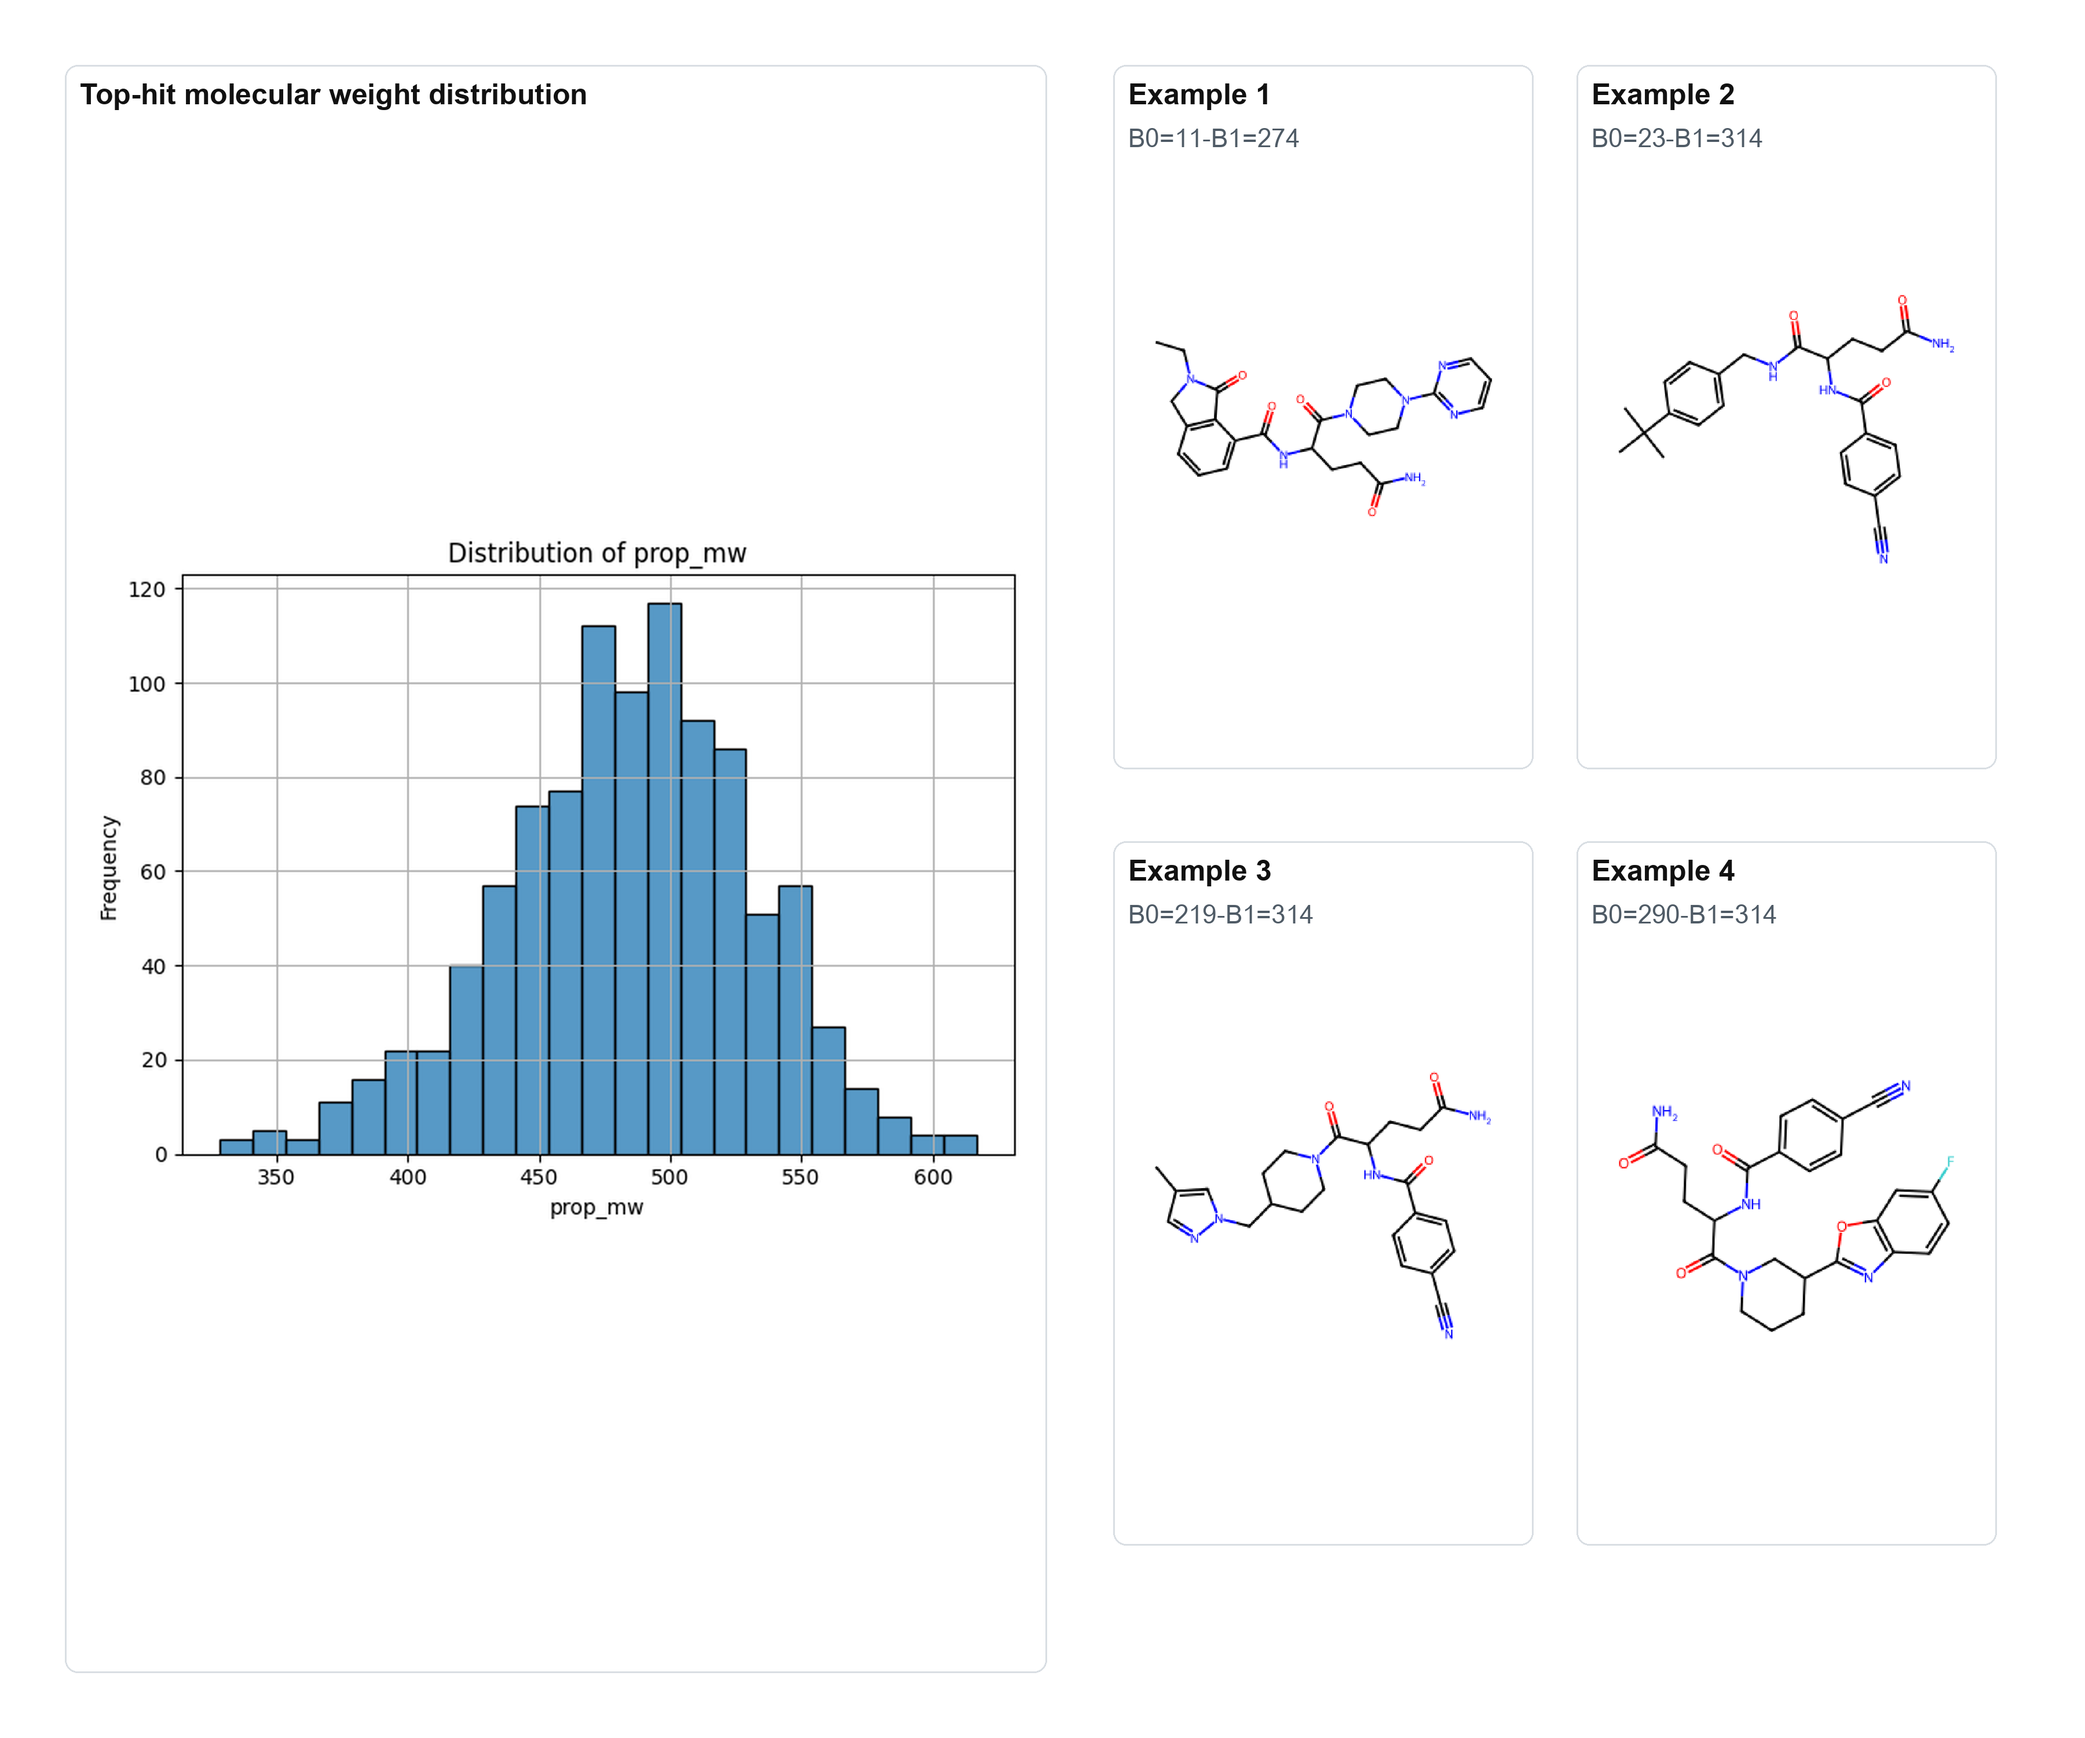
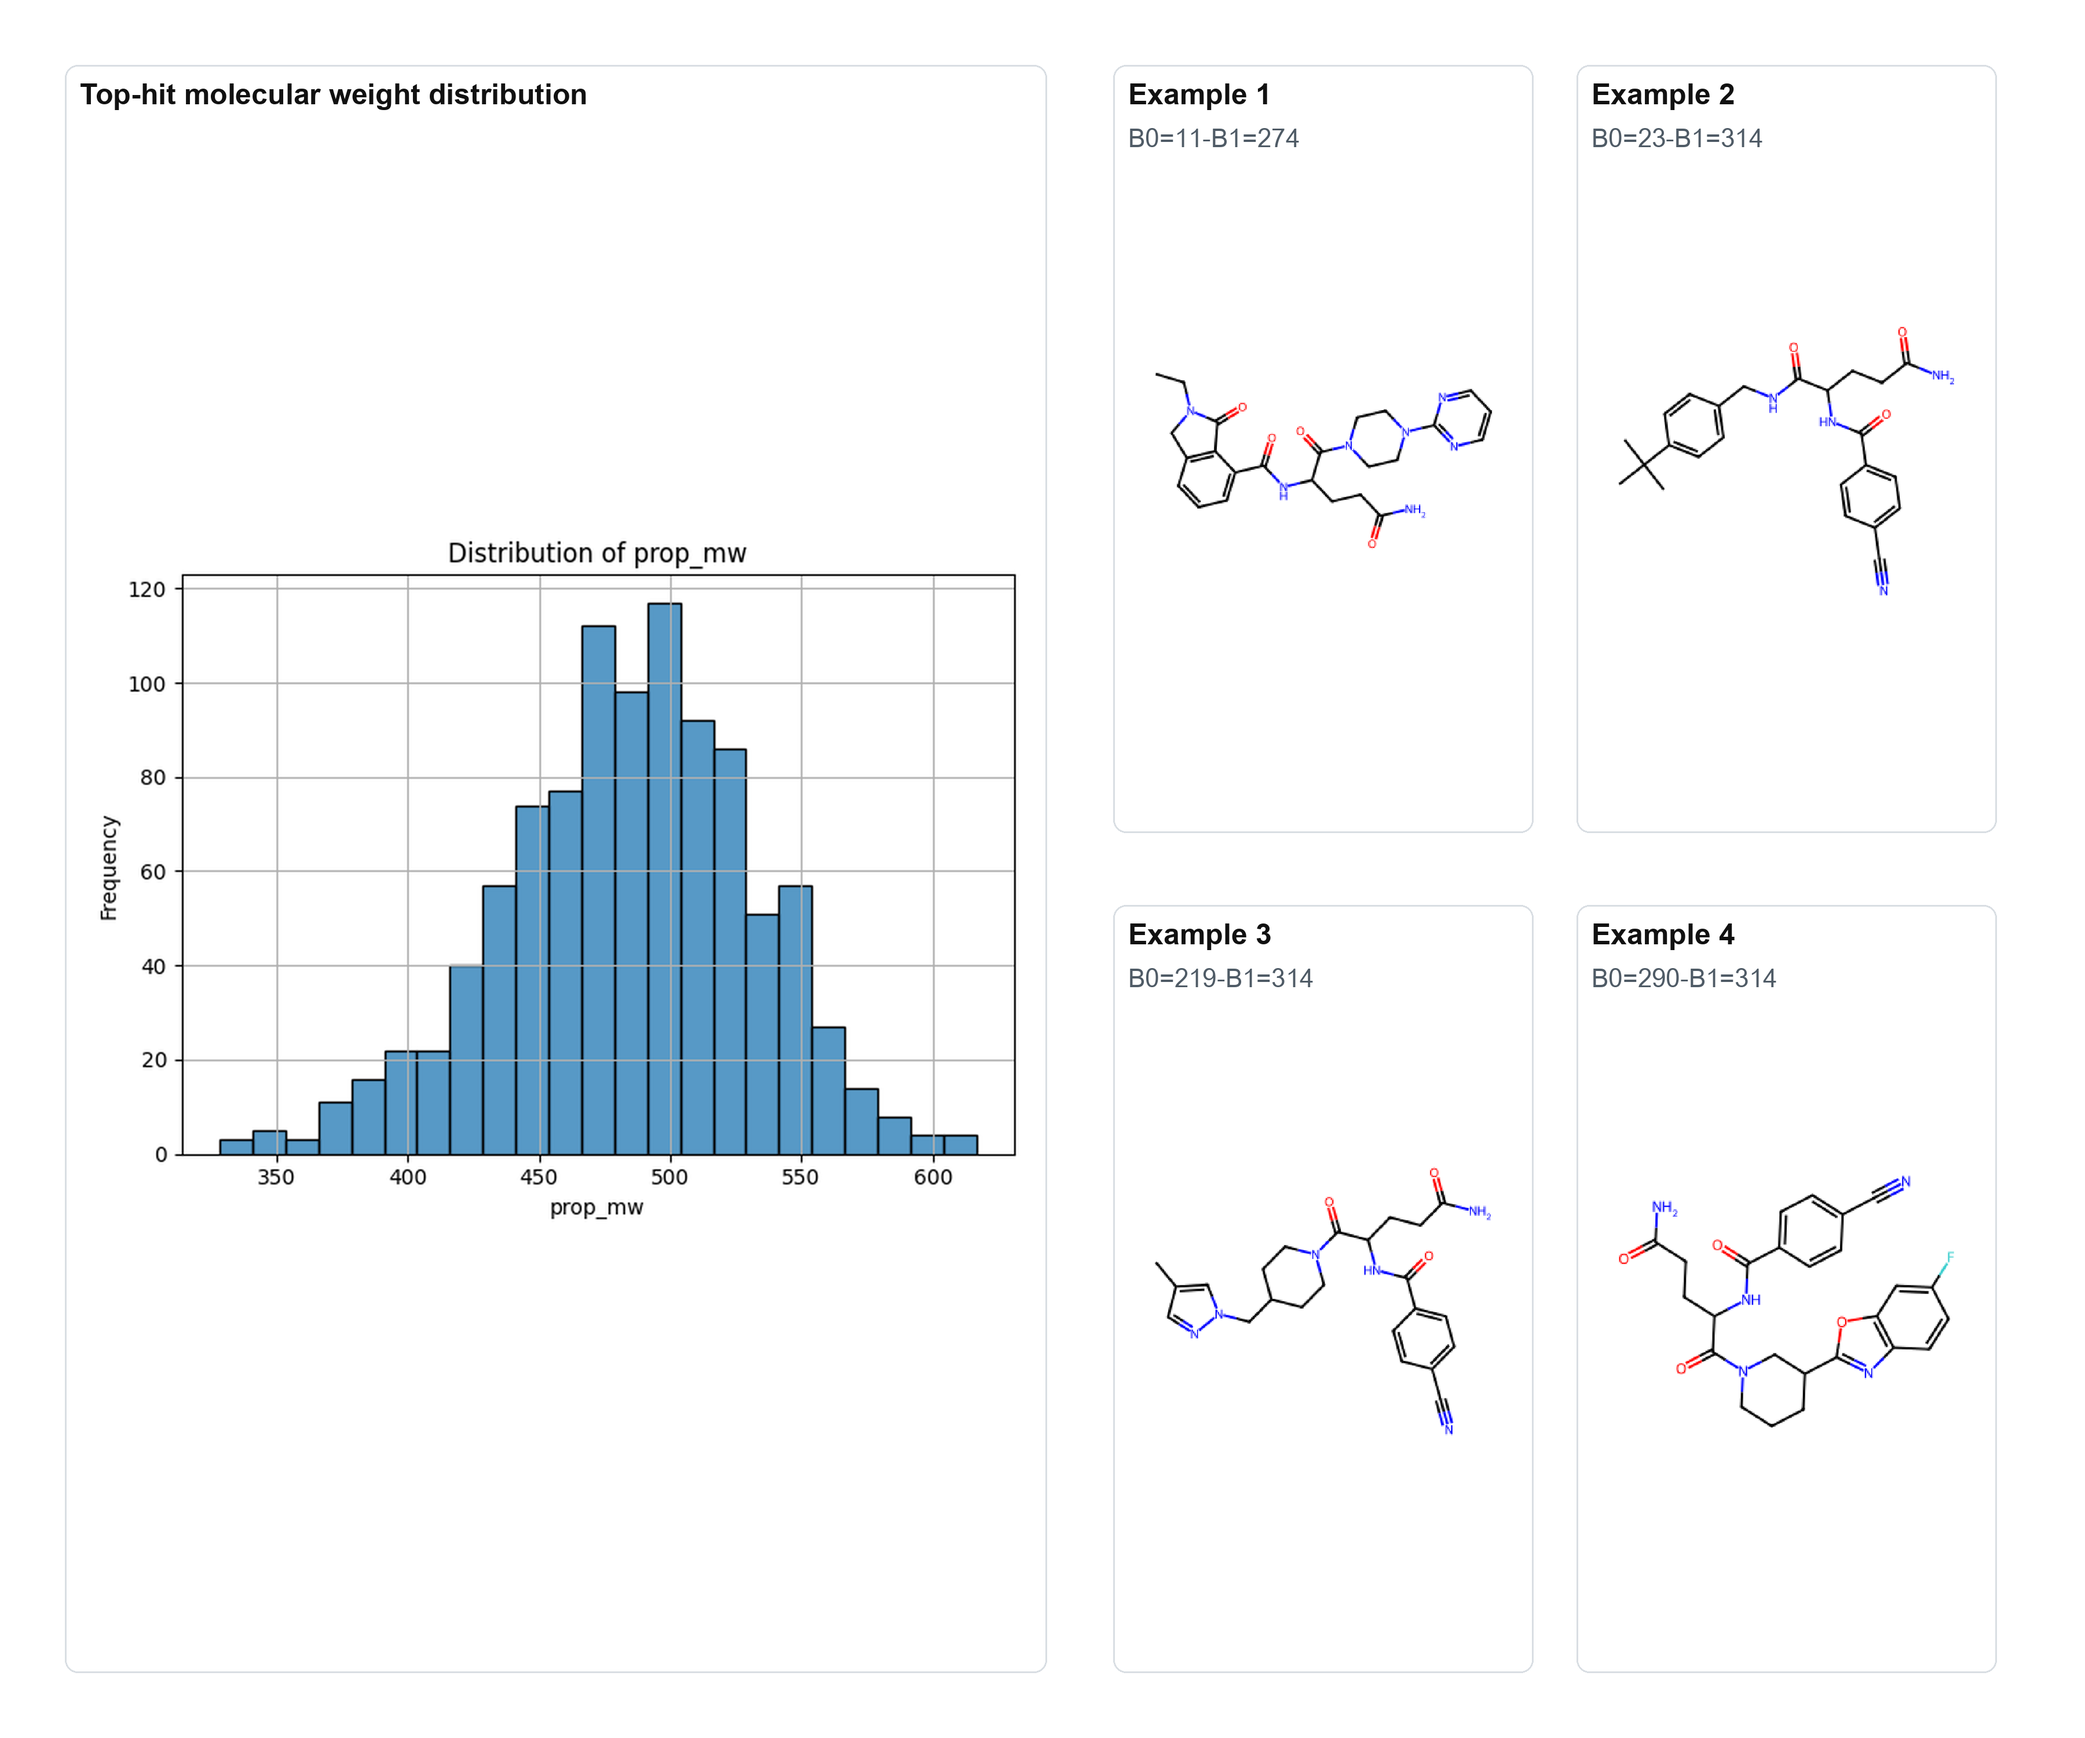
Adjust Figure 5 composite sizing

diff --git a/paper/generate_composite_figures.py b/paper/generate_composite_figures.py
@@ -267,10 +267,10 @@ def build_properties_and_examples_composite(
     positions = [
         (1920, 110),
         (2720, 110),
-        (1920, 1450),
-        (2720, 1450),
+        (1920, 1560),
+        (2720, 1560),
     ]
-    size = (730, 1220)
+    size = (730, 1330)
     for i, (image_path, (x, y)) in enumerate(zip(library_examples, positions), start=1):
         example_panel = panel(image_path, size, title=f"Example {i}", subtitle=image_path.stem)
         figure.paste(example_panel, (x, y))
